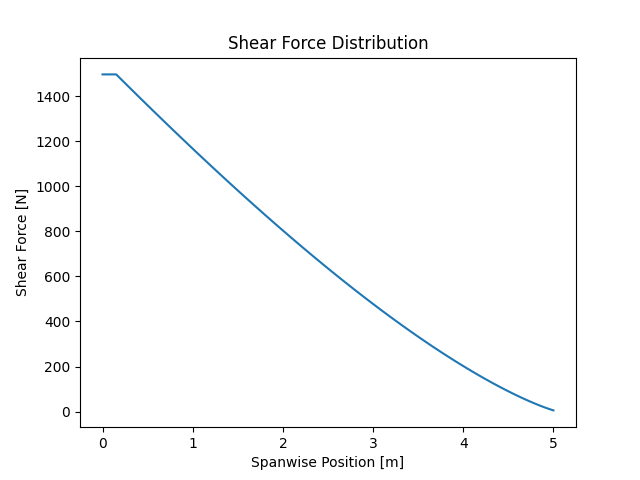
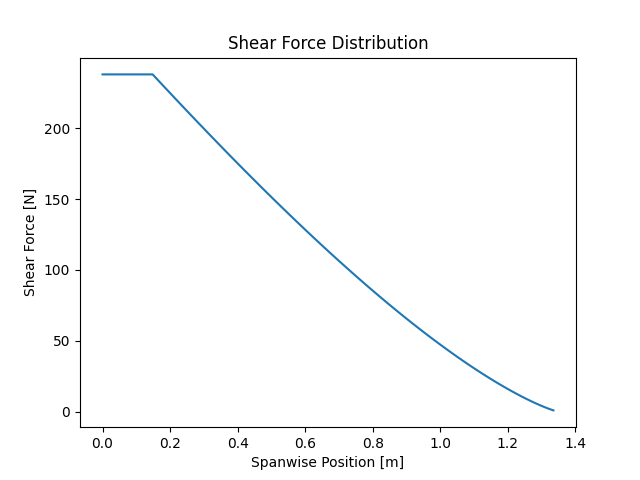
added shear stress due to shear force

diff --git a/src_final/structural_analysis/wing_loading.py b/src_final/structural_analysis/wing_loading.py
@@ -377,32 +377,52 @@ class WingModel:
         shear_forces = self.shear_force_each_node
         thickness_skin = self.wing_skin_thickness_m
 
-    # Ellipse properties
-        _, c_stations, self.y_stations, dy = self.planform.sectional_properties(number_of_sections=self.number_of_nodes)
+    # Geometric properties
+        reduced_sectional_spanwise_positions = self.span_poz
+        modified_sectional_lifts_schrenk = self.force_distribution
+        c_stations, _, y_stations, dy = self.planform.sectional_properties(number_of_sections=self.number_of_nodes)
+        c_stations_cop = c_stations[-np.size(reduced_sectional_spanwise_positions):]
+        y_stations_cop = y_stations[-np.size(reduced_sectional_spanwise_positions):]
         thickness_to_chord = self.planform.thickness_to_chord
+
+    # Ellipse properties
         a = 0.5 * c_stations
         b = 0.5 * c_stations * thickness_to_chord
-        perimeter = self.perimeter_area_of_section(c_stations, thickness_to_chord)
-        
-    # Get the first moment of area Q
-        discretisation_steps = 1000
-        diff_angle = np.linspace(0, 2*np.pi, discretisation_steps)
-        x_coord = a * np.cos(diff_angle)
-        y_coord = b * np.sin(diff_angle)
-        arc_diff = np.sqrt(x_coord**2 + y_coord**2)                                                   # dA = t * arc_diff
-        moment_of_inertia = self.wing_skin_thickness_m * trapezoid(y_coord**2,arc_diff, diff_angle )  # Ixx = int(y^2 dA)
+        perimeter = self.perimeter_area_of_section()[0]
+        shear_stress_V = np.zeros_like(c_stations_cop)
+    
+        for i in range(len(y_stations_cop)):
+            # Get the first moment of area Q
+                discretisation_steps = 1000
+                diff_angle = np.linspace(0, 2*np.pi, discretisation_steps)          # [rad]
+                x_coord = np.ones_like(diff_angle) * a[i] * np.cos(diff_angle)
+                y_coord = np.ones_like(diff_angle) * b[i] * np.sin(diff_angle)
+                arc_diff = np.sqrt(a[i]**2 * np.sin(diff_angle)**2 + b[i]**2 * np.cos(diff_angle)**2)     
+                                                                                                                # dA = t * arc_diff
+                moment_of_inertia = self.wing_skin_thickness_m * trapezoid(y_coord**2 * arc_diff, diff_angle )  # Ixx = int(y^2 dA) = int(y^2 d_arc/d_angle * d_angle)
 
-        first_area_moment = cumulative_trapezoid(y_coord * arc_diff * self.wing_skin_thickness_m, diff_angle, 0.0)  # Q = int(y*dA)
+                first_area_moment = cumulative_trapezoid(y_coord * arc_diff * self.wing_skin_thickness_m, diff_angle, initial=0.0)  # Q = int(y*dA)
+                qb = shear_forces[i] * first_area_moment / moment_of_inertia
 
-        shear_stress_partial = shear_forces * first_area_moment / (moment_of_inertia * self.wing_skin_thickness_m)
+            # Get q0            q0 = int(Qt * arc_diff)/int(arc_diff)   -->     q0 = int(Qt * arc_diff)/perimeter
+                q0 = (-trapezoid(qb * arc_diff,  diff_angle) / perimeter)[0]
+                q0 = np.ones_like(qb) * q0
 
-    # Get q0            q0 = int(Qt * arc_diff)/int(arc_diff)   -->     q0 = int(Qt * arc_diff)/perimeter
-        q0 = -trapezoid(shear_stress_partial * self.wing_skin_thickness_m, arc_diff, diff_angle)
-        tau0 = np.ones_like(shear_stress_partial) * q0/self.wing_skin_thickness_m
+                shear_stress = (q0 + qb) / thickness_skin
+                shear_stress_max = np.max(np.abs(shear_stress))
 
-    # Get the total shear stress
-        self.shear_stress_V = shear_stress_partial + tau0
 
+            # Get the total shear stress
+                shear_stress_V[i] = shear_stress_max
+
+    # Interpolate to the fuselage section
+        shear_node_tot_V = interp1d(reduced_sectional_spanwise_positions,
+                                    shear_stress_V,
+                                    kind = 'zero',
+                                    fill_value = 'extrapolate')
+    
+        shear_stress_V_each_node = shear_node_tot_V(reduced_sectional_spanwise_positions)
+        shear_stress_V = np.concatenate(( np.full(np.size(c_stations) - np.size(shear_stress_V_each_node), shear_stress_V_each_node[0]), shear_stress_V_each_node))
     # Debug (optional)
         if debug:
             print(f'Number of discretised sections [-]: {discretisation_steps}')
@@ -410,21 +430,47 @@ class WingModel:
             print(f'Ixx [m4]: {moment_of_inertia}')
             print(f'Q [m3]: {first_area_moment}')
             print(f'Perimeter [m]: {perimeter}')
-            print(f'q0 [N/m]: {q0}')
-            print(f'tau0 [Pa]: {tau0}')
-            print(f'Total shear stress due to shear [Pa]: {self.shear_stress_V}')
+            print(f'q0 [N/m]: {q0[0]}')
+            print(f'Total shear stress due to shear [Pa]: {shear_stress_V}')
 
     # Plot(optional)
         if plot:
             fig = plt.figure()
-            plt.plot(self.y_stations, self.shear_stress_V)
+            plt.plot(self.y_stations, shear_stress_V)
             plt.xlabel('Spanwise Position [m]')
             plt.ylabel("Shear Stress [Pa]")
             plt.title("Shear Stress due to Shear")
             fig.savefig('shear_stress_due_to_shear.png')
             plt.show()
         
-        return self.shear_stress_V
+        return shear_stress_V
+    
+    def step_shear_stress_total(self,
+                                debug: bool,
+                                plot: bool):
+        shear_stress_T = self.step_shear_stress(debug = False, plot = False)
+        shear_stress_V = self.step_shear_stress_V(debug = False, plot = False)
+
+        shear_stress_total = shear_stress_T + shear_stress_V
+    
+    # Debug (optional)
+        if debug:
+            print(f'Shear stress due to torsion [Pa]: {shear_stress_T}')
+            print(f'Shear stress due to shear [Pa]: {shear_stress_V}')
+            print(f'Total shear stress [Pa]: {shear_stress_total}')
+
+    # Plot(optional)
+        if plot:
+            fig = plt.figure()
+            plt.plot(self.y_stations, shear_stress_total)
+            plt.xlabel('Spanwise Position [m]')
+            plt.ylabel("Shear Stress [Pa]")
+            plt.title("Shear Stress Distribution")
+            fig.savefig('shear_stress_total.png')
+            plt.show()
+
+        
+        return shear_stress_total
 
     def step_moment(self,
                     debug: bool,
@@ -529,14 +575,21 @@ if __name__=='__main__':
         #     moments=bending_moment
         # )
 
-        shear_stress = wing_model.step_shear_stress(
+        shear_stress_T = wing_model.step_shear_stress(
             debug=False,
             plot=plot_1
         )
 
-        buckling_stress = wing_model.buckling_model()
-        are_we_buckling = wing_model.wing_stres_per_com()
-       
+        shear_stress_V = wing_model.step_shear_stress_V(
+            debug = False,
+            plot = plot_1
+        )
+
+        shear_stress = wing_model.step_shear_stress_total(
+            debug = False,
+            plot = plot_1
+        )
+
 
         print("\n========== WING STRUCTURAL RESULTS ==========")
         print(f"Root torque:              {torque[0]:.3f} N m")
@@ -549,7 +602,6 @@ if __name__=='__main__':
         #print(f"Max crushing pressure:    {np.max(np.abs(crushing_pressure)) / 1e6:.3f} MPa")
         print(f"Max buckling stress is    {np.max(buckling_stress)/1e6 :.3f} MPa")
         print(f"Are we buckling with this? {np.any(  are_we_buckling> 0)}")
-        
 
 
         # Quick sanity-run of torsion computation

diff --git a/tests_final/test_shear_bending.py b/tests_final/test_shear_bending.py
@@ -136,28 +136,24 @@ class TestShearBending:
         dummy_internal_shear_forces_cop_fine = dummy_internal_shear_forces_cop_int(
             dummy_y_stations_cop_fine
         )
-        dummy_internal_bending_moments_cop = np.concatenate(
-            [
-                [0],
-                cumulative_trapezoid(
-                    dummy_internal_shear_forces_cop_fine[::-1],
-                    dummy_y_stations_cop_fine[::-1],
-                ),
-            ]
-        )[::-1]
+        dummy_internal_bending_moments_cop = np.concatenate([[0], cumulative_trapezoid(dummy_internal_shear_forces_cop_fine[::-1],
+                    dummy_y_stations_cop_fine[::-1],),])[::-1]
         dummy_internal_bending_moments_int = interp1d(dummy_y_stations_cop,
                                      dummy_internal_bending_moments_cop,
                                      kind='zero',
                                      bounds_error=False,
                                      fill_value='extrapolate')
         
-        dummy_internal_bending_moments_int = dummy_internal_bending_moments_int(dummy_y_stations)       
+        dummy_internal_bending_moments_int = dummy_internal_bending_moments_int(dummy_y_stations)
+
+        print(f'Dummy internal bending moments [Nm]: {dummy_internal_bending_moments_int}')       
         
         # STEP 4: Run the actual functions to see if it computes the stresses correctly
         shear_stresses_test = wing_model.step_shear_stress(debug = False, plot = False)
         shear_forces_test = wing_model.step_shear_forces(debug = False, plot = False)
         bending_moments_test = wing_model.step_moment(debug = False, plot = False)
 
-
         print(f'Computed shear stress [Pa]: {shear_stresses_test}')
-
+        assert np.allclose(dummy_shear_stress, shear_stresses_test, 1e-6, 1e-6)
+        assert np.allclose(dummy_shear_force, shear_forces_test, 1e-6, 1e-6)
+        assert np.allclose(dummy_internal_bending_moments_int, bending_moments_test, 1e-6, 1e-6)
